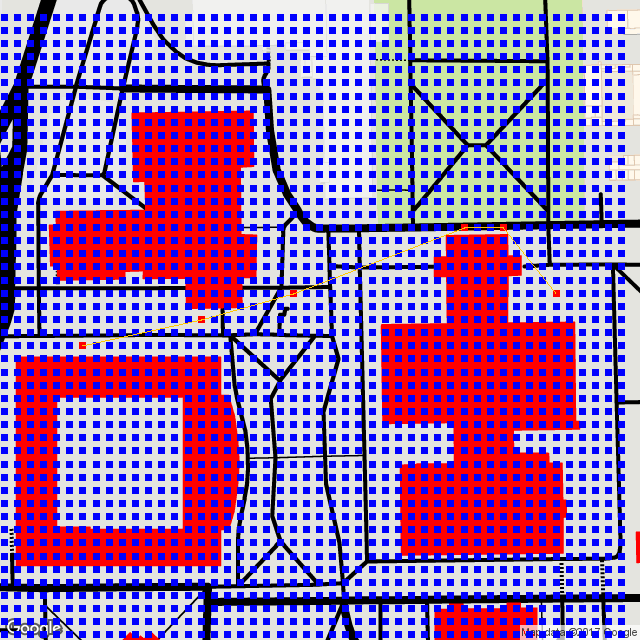
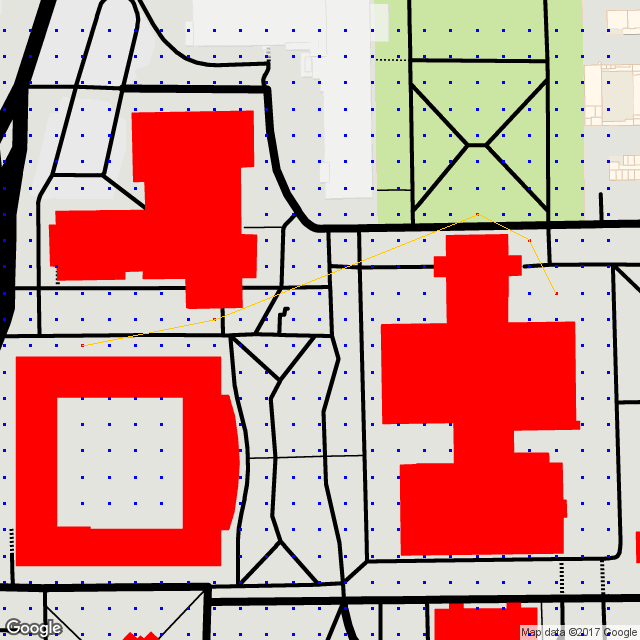
removed nodes from buildings

Changed region(s): [[0.0, 0.0, 1.0, 1.0]]

diff --git a/tests/server/GraphTests.java b/tests/server/GraphTests.java
@@ -126,7 +126,8 @@ public class GraphTests {
 		double metersPerPixel = APITools.getMetersPerPixel(center.latitude, zoom);
 		LatLng southwest = APITools.getSouthwest(center, metersPerPixel, sizeX, sizeY);
 		LatLng northeast = APITools.getNortheast(center, metersPerPixel, sizeX, sizeY);
-		List<Node> newNodes = GraphTools.GenerateUniformNodes(6, southwest, northeast);
+		List<Node> nodes = GraphTools.GenerateUniformNodes(12, southwest, northeast);
+		List<Node> newNodes = GraphTools.RemoveBuildingNodes(nodes, img, southwest, northeast);
 		Graph g = new Graph(null, null, newNodes);
 		int startNodeIndex = g.findClosestNodeIndex(new Node(start.latitude, start.longitude, null, true, false));
 		int endNodeIndex = g.findClosestNodeIndex(new Node(end.latitude, end.longitude, null, false, true));
@@ -141,9 +142,9 @@ public class GraphTests {
 		List<Integer> path = GraphTools.dijkstra(g.getStartIndex(), g, g.getEndIndex());
 		List<Node> nodesToDraw = g.getNodesFromPath(path);
 
-		GraphTools.DrawRouteOnly(img_clean, nodesToDraw, Color.BLUE, 3, southwest, northeast, Color.ORANGE);
+		GraphTools.DrawRouteOnly(img_clean, nodesToDraw, Color.BLUE, 1, southwest, northeast, Color.ORANGE);
 		Tools.WriteImage(img_clean, "testImages/finalClean.png");
-		GraphTools.DrawLines(img_clean, nodesToDraw, Color.BLUE, 3, southwest, northeast, Color.ORANGE, g);
+		GraphTools.DrawLines(img_clean, nodesToDraw, Color.BLUE, 1, southwest, northeast, Color.ORANGE, g);
 
 		Tools.WriteImage(img_clean, "testImages/final.png");
 		// //

diff --git a/src/generic/GraphTools.java b/src/generic/GraphTools.java
@@ -85,6 +85,23 @@ public class GraphTools {
 
 	}
 
+	public static List<Node> RemoveBuildingNodes(List<Node> nodes, BufferedImage img, LatLng southwest,
+			LatLng northeast) {
+		for (int i = 0; i < nodes.size(); i++) {
+			Node n = nodes.get(i);
+			Point2D.Double startPnt = APITools.getImagePointFromLatLng(n.getPosition(), southwest, northeast,
+					img.getWidth(), img.getHeight());
+			int x = (int) startPnt.x;
+			int y = (int) startPnt.y;
+			int rgb = img.getRGB(x, y);
+			if (Tools.colorIsCloseEnough(rgb, Config.MAPS_BUILDING_RGB, Config.FILLCOLOR_RGB_TOLERANCE)) {
+				nodes.remove(i);
+				i--;
+			}
+		}
+		return nodes;
+	}
+
 	public static List<Node> GenerateUniformNodes(double meterSpacing, LatLng southwest, LatLng northeast) {
 		double latLen = APITools.getLatitudeDifference(southwest, northeast);
 		double lonLen = APITools.getLongitudeDifference(southwest, northeast);
